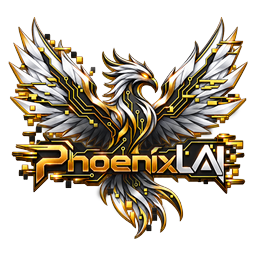
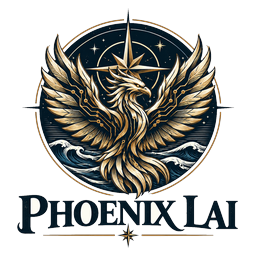
hub: Phoenix LAI card uses the repo's Fleet emblem

diff --git a/assets/emblems/README.md b/assets/emblems/README.md
@@ -35,7 +35,7 @@ If a tool repo changes its mark, copy the new `mark.svg` here.
 
 `painted/<id>.png` (and `<id>-light.png` where the tool ships a light variant) is the tool's full painted emblem from its
 repo's `assets/brand/` (`emblem-dark-transparent.png`, else `emblem-dark.png` with the flat navy field knocked out, else
-`emblem-transparent.png`; Phoenix LAI from `html/assets/*_phoenix_logo.png`), trimmed and fitted into 256x256 with an
+`emblem-transparent.png`; Phoenix LAI from `html/assets/brand/emblem-transparent.png` and `fleet-emblem-light.png`), trimmed and fitted into 256x256 with an
 8 px margin. Only the SCOPE skin shows them, beside the card title; the plain hub keeps the line marks above. When a tool's
 emblem changes, re-import it the same way. The SCOPE skin's own painted emblem is expected at `assets/brand/scope/emblem-dark.png`
 and `emblem-light.png`; until those exist the skin falls back to `scope.svg`.
